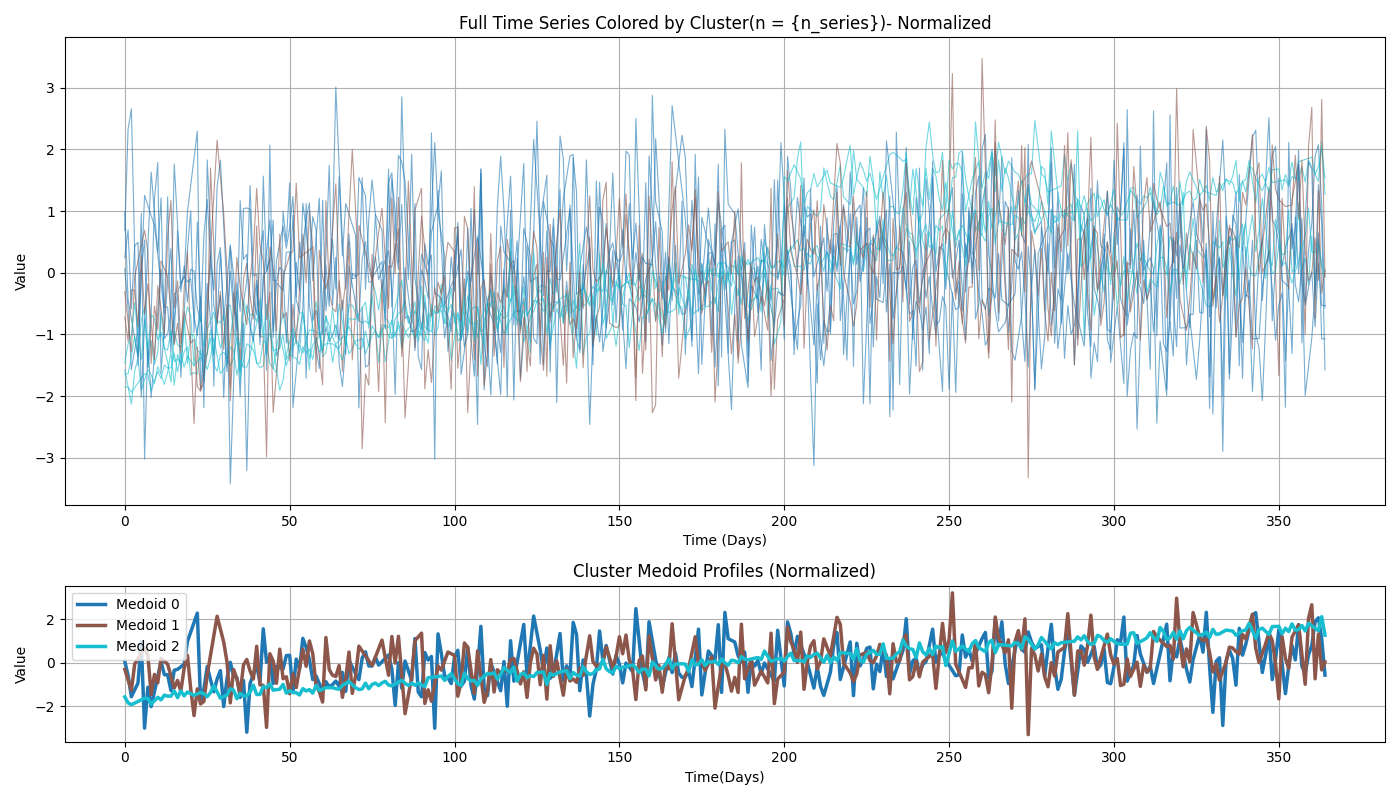
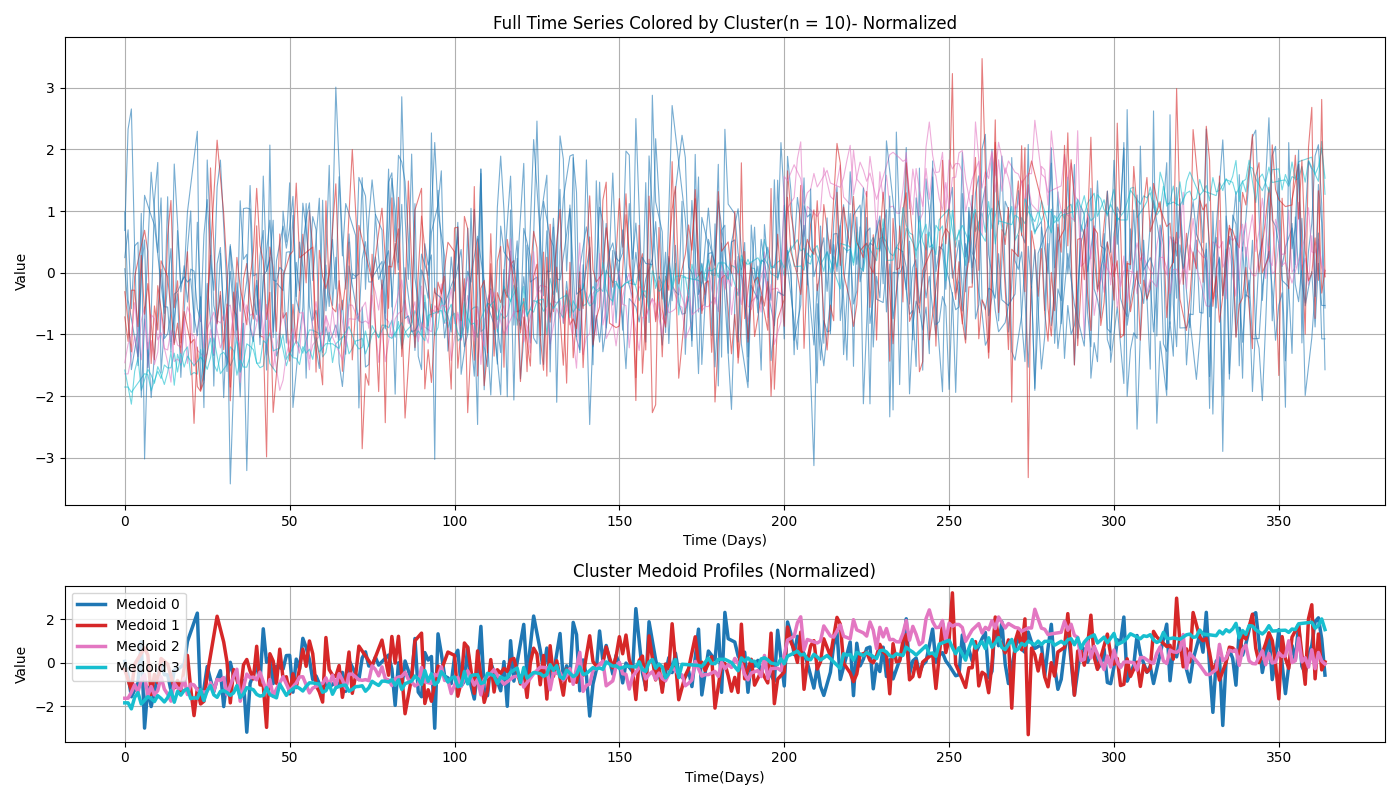
feat(clustering): added Agglomerative Hierachical Clustering
- Now Hierachical Clustering is implemented as an additional way to cluster multiple time series together
- it is possible to run the clustering fully unsupervised, where it will build the clusters up agglomeratively till it converges to a single cluster, or it can be semi-supervised by cutting at a passed k value, which stops assigning at k clusters.
- implemented a corresponding plot function, which creates a side-by-side plot of a dendrogram and all the time series colored to their respective clusters
- generated the associated plots with various scenarios(different dissimilarities, normalization/amount of clusters defined or not)

Changed region(s): [[0.0921, 0.125, 0.9521, 0.5], [0.0614, 0.75, 0.9521, 0.9062], [0.3379, 0.0, 0.7064, 0.0625]]

diff --git a/src/project_utilities.py b/src/project_utilities.py
@@ -1,6 +1,8 @@
 import matplotlib.pyplot as plt
 from sklearn.metrics import mean_squared_error, mean_absolute_percentage_error
 from scipy.stats import zscore
+from scipy.cluster.hierarchy import dendrogram, linkage, cophenet
+from scipy.spatial.distance import squareform
 import pandas as pd
 import numpy as np
 import config
@@ -318,7 +320,7 @@ def plot_kmedoid_results(series_matrix,
     for idx, (series, label) in enumerate(zip(series_matrix,labels)):
         axs[0].plot(time_axis, series, color=colors(label), alpha=0.6, linewidth=0.8)
 
-    axs[0].set_title("Full Time Series Colored by Cluster(n = {n_series})" + ("- Normalized" if is_normalized else ""))
+    axs[0].set_title(f"Full Time Series Colored by Cluster(n = {n_series})" + ("- Normalized" if is_normalized else ""))
     axs[0].set_xlabel("Time (Days)")
     axs[0].set_ylabel("Value")
     axs[0].grid(True)
@@ -340,6 +342,89 @@ def plot_kmedoid_results(series_matrix,
     date = datetime.datetime.now().strftime("%Y-%m-%d")
     filename = f"kmedoid_multiseries_{config.DEFAULT_DISSIMILARITY}_{'normalized' if is_normalized else 'raw'}_{date}.png"
         
+
+    plot_path = os.path.join(
+        config.TO_CLUSTERING_PLOTS_DIR,
+        filename
+    )
+
+    plt.tight_layout()
+    plt.savefig(plot_path)
+    plt.close()
+    print(f"Multi-series clustering plot saved to: {plot_path}")
+
+def plot_hierachical_results(series_matrix, 
+                             labels, 
+                             is_normalized=False, 
+                             method="average", 
+                             k = None, 
+                             dissimilarity_matrix=None):
+    '''Plots the results of hierarchical clustering. On the left is the dendrogram,
+    and on the right is the colored time series by cluster.'''
+
+    if dissimilarity_matrix is None:
+        raise ValueError("To plot a dendrogram, you must provide a dissimilarity matrix.")
+    
+    n_clusters = len(np.unique(labels))
+    colors = plt.cm.get_cmap("tab10", n_clusters)
+    series_length = series_matrix.shape[1]
+    time_axis = np.arange(series_length)
+    n_series = series_matrix.shape[0]
+
+    fig, axs = plt.subplots(1,2, figsize=(16, 8), gridspec_kw={'width_ratios': [2, 3]})
+
+    ### Dendogram ###
+    condensed = squareform(dissimilarity_matrix)
+    linkage_matrix = linkage(condensed, method=method)
+
+    # Used to cut the dendrogram if a k is defined 
+    # grabs the height (distance) of the last merge before you reach k clusters
+    if k:
+        threshold = linkage_matrix[-(k - 1), 2]
+
+    dendrogram(linkage_matrix, 
+               labels=[f"TS_{i}" for i in range(n_series)], 
+               ax=axs[0], 
+               color_threshold=0)
+    
+    if k:
+        axs[0].set_ylim(0, threshold + (0.1 * threshold))
+        #axs[0].axhline(y=threshold, color='r', linestyle='--')
+
+        
+    coph_corr, _ = cophenet(linkage_matrix, condensed)
+    
+    fig.suptitle(f"Hierarchical Clustering Results (Cophenetic Corr: {coph_corr:.3f})", fontsize=14)
+    
+    dendro_title = "Dendrogram of Hierachical Clustering"
+    if k:
+        dendro_title += f" (k={k})"
+    axs[0].set_title(dendro_title)
+    axs[0].set_xlabel("Time Series")
+    axs[0].set_ylabel("Distance")
+
+    ### Full Time Series coloured by cluster ###
+    for idx, (series, label) in enumerate(zip(series_matrix,labels)):
+        axs[1].plot(time_axis, series, color=colors(label), alpha=0.6, linewidth=0.8)
+
+    axs[1].set_title(f"Time Series by Cluster (n = {n_series})" + (" - Normalized" if is_normalized else ""))
+    axs[1].set_xlabel("Time (Days)")
+    axs[1].set_ylabel("Value")
+    axs[1].grid(True)
+
+    date = datetime.datetime.now().strftime("%Y-%m-%d")
+    filename = f"hierarchical_multiseries_{config.DEFAULT_DISSIMILARITY}_"
+    
+    if k:
+        filename += f"capped_to_{k}_"
+    else:
+        filename += "unsupervised_"
+    
+    if is_normalized:
+        filename += f"normalized_{date}.png"
+    else:
+        filename += f"raw_{date}.png"
+
 
     plot_path = os.path.join(
         config.TO_CLUSTERING_PLOTS_DIR,

diff --git a/src/data_clustering.py b/src/data_clustering.py
@@ -4,8 +4,10 @@ from project_utilities import (import_dataframe_from_csv_indexed,
                                import_distance_matrix,
                                plot_silhouette_score,
                                plot_kmedoid_results,
+                               plot_hierachical_results,
                                import_restored_data_as_numpy,
                                traverse_to_method_dir)
+from sklearn.cluster import AgglomerativeClustering
 from sklearn_extra.cluster import KMedoids
 from sklearn.metrics import silhouette_score
 from scipy.stats import zscore
@@ -106,8 +108,28 @@ def initiate_clustering_computation(distance_matrix: np.ndarray,
         return cluster_labels, model
     
     elif cluster_method == "hierarchical":
-        # TODO: implement hierarchical clustering
-        pass
+        
+        print("Running Agglomerative Hierarchical Clustering with average linkage")
+
+        if k is not None:
+            print(f"Clustering using fixed number of clusters (k={k})")
+            model = AgglomerativeClustering(
+                metric='precomputed',
+                linkage='average',
+                n_clusters=k
+            )
+            cluster_labels = model.fit_predict(distance_matrix)
+        else:
+            print(f"No k provided: running fully unsupervisied clustering (distance threshold = 0)")
+            model = AgglomerativeClustering(
+                metric='precomputed',
+                linkage='average',
+                distance_threshold=0,
+                n_clusters=None
+            )
+            cluster_labels = model.fit_predict(distance_matrix)
+        return cluster_labels, model
+        
     else:
         raise ValueError(f"Unsupported clustering method. {cluster_method}")
            
@@ -151,8 +173,6 @@ def start_clustering_pipeline(compute_dist=False,
 
 
         print("Completed Dissimilarity Matrix Computation.")
-
-    # TODO: Passing computed matrix into clustering logic
     
     
     labels, model = initiate_clustering_computation(
@@ -162,13 +182,12 @@ def start_clustering_pipeline(compute_dist=False,
             date=None,
             is_normalize=normalize),
             cluster_method=config.DEFAULT_CLUSTERING_METHOD,
-            k=None,
+            k=config.DEFAULT_AMOUNT_OF_CLUSTERS,
             is_normalized=normalize
     )
 
     print("Cluster assignments:", labels)
 
-    #TODO visualise the labeled sequences from kmedoid
     
     series_matrix: np.ndarray = import_restored_data_as_numpy(traverse_to_method_dir(
             config.TO_AGGREGATED_DATA_DIR, 
@@ -179,8 +198,25 @@ def start_clustering_pipeline(compute_dist=False,
             normalized_series_matrix = np.apply_along_axis(zscore, 1, series_matrix)
             series_matrix = normalized_series_matrix
 
-    plot_kmedoid_results(series_matrix,
-                         labels, 
-                         model,
-                         normalize)
+    if config.DEFAULT_CLUSTERING_METHOD == "kmedoids":
+        plot_kmedoid_results(series_matrix,
+                            labels, 
+                            model,
+                            normalize)
+    elif config.DEFAULT_CLUSTERING_METHOD == "hierarchical":
+        plot_hierachical_results(series_matrix,
+                            labels,
+                            normalize,
+                            method="average",
+                            k=config.DEFAULT_AMOUNT_OF_CLUSTERS,
+                            dissimilarity_matrix=import_distance_matrix(
+                                                    filename=config.SYN_EXPORT_DIST_MATRIX_NAME, 
+                                                    method=config.DEFAULT_DISSIMILARITY,
+                                                    date=None,
+                                                    is_normalize=normalize
+                                                    )
+        )
+    else:
+        raise ValueError(f"Unsupported clustering method. Supported methods are: {config.CLUSTERING_METHODS}")
+    
     

diff --git a/src/config.py b/src/config.py
@@ -110,6 +110,11 @@ DISSIMILARITY_MEASURES = ["fastDTW", "dtw"]
 
 ### clustering parameters
 DEFAULT_CLUSTERING_METHOD = "kmedoids"
+CLUSTERING_METHODS = ["kmedoids", "hierarchical"]
 K_MEDOIDS_DEFAULT_CLUSTER_AMOUNT = 3
 K_MEDOIDS_DEFAULT_MAX_CLUSTERING_AMOUNT = 10
+
+# if we want to compare it to kmedoids cluster evaluation and make the clustering 
+# semi-unsupervised
+DEFAULT_AMOUNT_OF_CLUSTERS = 4
 
